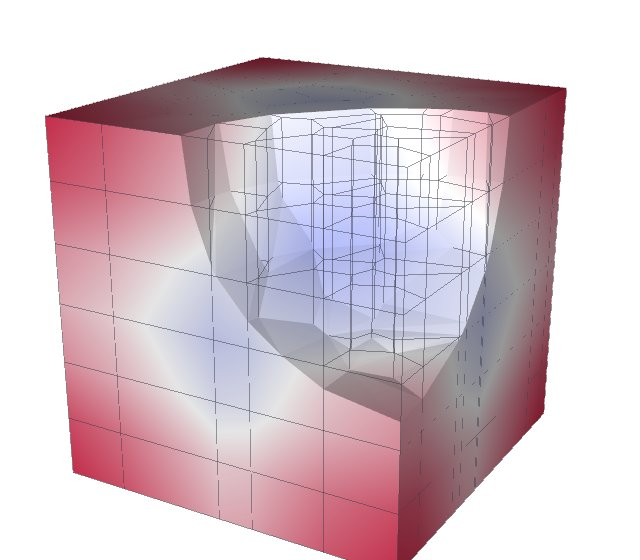
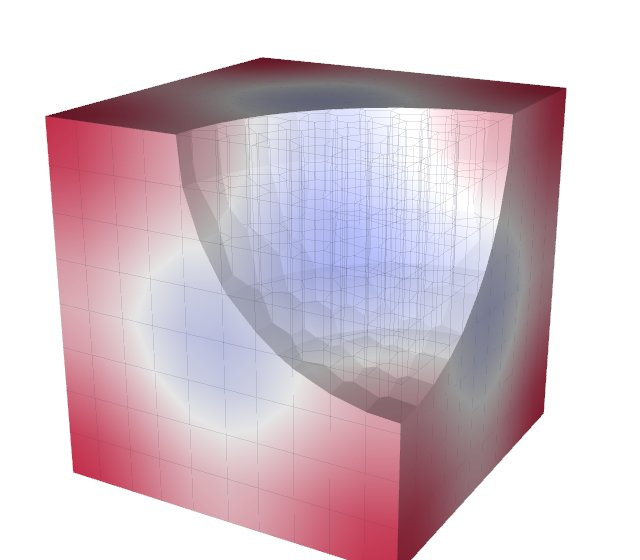
Gallery: Lloyd-relaxed Voronoi columns (1200 even polyhedra); cell quality on hexahedra in place of polyhedra, whose Jacobian measures are on their fan's scale; cell_quality documents that scale
A cube as a polyhedron has a scaled Jacobian of 1/sqrt(3) and a condition of
1.29, measured by its fan tetrahedra against the regular tetrahedron, where
the hexahedron scores 1: cell_quality's docstring says so and that the
polyhedron measures are a validity check comparing polyhedra with each other;
test_a_polyhedrons_measures_are_its_fans pins the numbers.

diff --git a/docs/gallery/_scene.py b/docs/gallery/_scene.py
@@ -26,7 +26,7 @@ KINDS = ("polyhedra", "linear", "high-order", "curved")
 
 TITLES = {"polyhedra": "Polyhedra", "linear": "Tetrahedra",
           "high-order": "Order 4 on straight cells", "curved": "Order 3 on curved cells",
-          "mixed": "Hexahedra, wedges and pyramids"}
+          "mixed": "Hexahedra, wedges and pyramids", "hexahedra": "Hexahedra"}
 
 
 def arguments(description, kinds=KINDS):
@@ -65,15 +65,12 @@ def _twist(x):
 
 # ── The datasets ────────────────────────────────────────────────────
 
-def _voronoi_columns(n=40, layers=6, seed=3):
-    """Voronoi cells of random points in the unit square, extruded through the unit
-    cube in ``layers``: polygonal prisms, faces of up to a dozen points. The points'
-    mirror images across the square's sides make the cells tile the square
+def _voronoi(seeds):
+    """The Voronoi diagram of ``seeds`` in the unit square, and each seed's region:
+    the seeds' mirror images across the square's sides make the regions tile it
     exactly."""
     from scipy.spatial import Voronoi
 
-    rng = np.random.default_rng(seed)
-    seeds = rng.uniform(0, 1, (n, 2))
     mirrored = [seeds]
     for axis in (0, 1):
         for side in (0.0, 1.0):
@@ -81,8 +78,26 @@ def _voronoi_columns(n=40, layers=6, seed=3):
             image[:, axis] = 2 * side - image[:, axis]
             mirrored.append(image)
     vor = Voronoi(np.concatenate(mirrored))
-    regions = [vor.regions[vor.point_region[i]] for i in range(n)]
-    # The mirrored cells' shared vertices are the square's; snap them onto it.
+    return vor, [vor.regions[vor.point_region[i]] for i in range(len(seeds))]
+
+
+def _voronoi_columns(n=150, layers=8, relax=20, seed=3):
+    """Voronoi cells of ``n`` points in the unit square, relaxed toward their
+    regions' centroids ``relax`` times (Lloyd's method: even cells, no very short
+    edges, as a polyhedral mesher makes them), extruded through the unit cube in
+    ``layers``: polygonal prisms."""
+    seeds = np.random.default_rng(seed).uniform(0, 1, (n, 2))
+    for _ in range(relax):
+        vor, regions = _voronoi(seeds)
+        for i, r in enumerate(regions):
+            ring = vor.vertices[r]
+            x, y = ring[:, 0], ring[:, 1]
+            cross = x * np.roll(y, -1) - np.roll(x, -1) * y
+            area = cross.sum() / 2
+            seeds[i] = [((x + np.roll(x, -1)) * cross).sum() / (6 * area),
+                        ((y + np.roll(y, -1)) * cross).sum() / (6 * area)]
+    vor, regions = _voronoi(seeds)
+    # The regions' vertices on the square's sides are on them to rounding: snap.
     xy = np.clip(vor.vertices, 0.0, 1.0)
     xy[np.abs(xy) < 1e-12] = 0.0
     xy[np.abs(xy - 1) < 1e-12] = 1.0
@@ -186,6 +201,10 @@ def dataset(kind):
         grid = td.uniform_grid((4, 4, 4), spacing=(1 / 3,) * 3)
         data = td.extract_cells(grid, np.arange(grid.num_cells))
         data.fields["u"] = td.interpolate(data, schwarz, td.H1(data, order=4))
+    elif kind == "hexahedra":
+        grid = td.uniform_grid((7, 7, 7), spacing=(1 / 6,) * 3)
+        data = td.extract_cells(grid, np.arange(grid.num_cells))
+        data.fields["u"] = td.interpolate(data, schwarz, td.H1(data))
     elif kind == "mixed":
         data = _mixed()
         data.fields["u"] = td.interpolate(data, schwarz, td.H1(data))

diff --git a/packages/tack-vis/src/tack/dataset/algorithms/cell_quality.py b/packages/tack-vis/src/tack/dataset/algorithms/cell_quality.py
@@ -490,10 +490,16 @@ def cell_quality(data, measures=None):
     measured as Verdict does, by its four tetrahedra over both base diagonals.
     Polyhedra and polygons, which have no reference cell, are measured by the fan
     tetrahedra and triangles Tack evaluates them in, each against the regular
-    tetrahedron or equilateral triangle: a valid star-shaped polyhedron has a
-    positive scaled Jacobian, though an ideal-looking one (a cube as a polyhedron)
-    scores below 1. Lines and vertices have no Jacobian measures (NaN); a line's
-    edges are its segments. Hidden cells are measured like the rest.
+    tetrahedron or equilateral triangle. Their Jacobian measures (scaled
+    Jacobian, Jacobian ratio, condition) are therefore on the fan's scale, not
+    the shapes': a cube as a polyhedron has a scaled Jacobian of 0.58 and a
+    condition of 1.29 where the hexahedron has 1 and 1, and no polyhedron has an
+    ideal to score 1 against. Read them as a validity check -- a positive scaled
+    Jacobian when every fan tetrahedron is upright (the cell star-shaped from its
+    points' mean), zero or negative when one is flat or inverted -- and compare
+    polyhedra with each other, not with shaped cells. The edge measures mean the
+    same on every cell. Lines and vertices have no Jacobian measures (NaN); a
+    line's edges are its segments. Hidden cells are measured like the rest.
 
     Matched to VTK 9.7.1's ``vtkMeshQuality`` to rounding for the scaled Jacobian
     of every linear shape, the condition number of triangles, quads, tetrahedra

diff --git a/packages/tack-vis/tests/test_cell_quality.py b/packages/tack-vis/tests/test_cell_quality.py
@@ -211,3 +211,19 @@ def test_measures_by_name():
     assert set(td.cell_quality(grid, ["condition", "max_edge"])) == {"condition", "max_edge"}
     with pytest.raises(ValueError, match="no measure 'skew'"):
         td.cell_quality(grid, "skew")
+
+
+def test_a_polyhedrons_measures_are_its_fans():
+    """What the docstring says of polyhedra: a cube as a polyhedron is measured by
+    the tetrahedra fanning it, against the regular tetrahedron -- scaled Jacobian
+    1/sqrt(3), condition 1.29 -- where the hexahedron scores 1; the edge measures
+    are the same on both."""
+    grid = td.uniform_grid((2, 2, 2), spacing=(0.5, 0.5, 0.5))
+    hexahedron = td.extract_cells(grid, [0])
+    ours, theirs = td.cell_quality(td.as_polyhedra(hexahedron)), td.cell_quality(hexahedron)
+    np.testing.assert_allclose(ours["scaled_jacobian"].values.numpy(), 1 / np.sqrt(3),
+                               rtol=1e-5)
+    np.testing.assert_allclose(ours["condition"].values.numpy(), 1.2909945, rtol=1e-5)
+    np.testing.assert_allclose(theirs["scaled_jacobian"].values.numpy(), 1.0, rtol=1e-6)
+    for name in ("edge_ratio", "min_edge", "max_edge"):
+        np.testing.assert_allclose(ours[name].values.numpy(), theirs[name].values.numpy())

diff --git a/docs/gallery/quality.py b/docs/gallery/quality.py
@@ -5,7 +5,7 @@ inverted), on meshes with their inner points jittered and on curved cells, the
 cells near a corner taken out so the inside shows.
 
 From the checkout (writes docs/assets/gallery/quality-<kind>.jpg):
-uv run python docs/gallery/quality.py [polyhedra linear mixed curved] [--arch metal]
+uv run python docs/gallery/quality.py [linear hexahedra mixed curved] [--arch metal]
 """
 
 import _scene
@@ -13,7 +13,9 @@ import numpy as np
 
 import tack.dataset as td
 
-KINDS = ("polyhedra", "linear", "mixed", "curved")
+# Not polyhedra: theirs are measured by the tetrahedra fanning them, on another
+# scale (a cube as a polyhedron scores 0.58), read as a validity check.
+KINDS = ("linear", "hexahedra", "mixed", "curved")
 
 
 def quality(data):

diff --git a/docs/vis-guide/gallery.md b/docs/vis-guide/gallery.md
@@ -192,19 +192,21 @@ and the ball's rim, not the sub-faces between them.
 
 Each cell's scaled Jacobian, red where poor (0 degenerate, below 0 inverted) and
 blue where ideal (1), on meshes whose inner points are moved at random, with the
-cells about a corner taken out. A polyhedron's measure is that of the tetrahedra
-fanning it, so even a cube-like one scores below 1. On the curved cells it is
-the least over the geometry's own Jacobian's samples.
+cells about a corner taken out. On the curved cells it is the least over the
+geometry's own Jacobian's samples. Polyhedra are left out: with no reference
+element, theirs is measured by the tetrahedra fanning them, on another scale (a
+cube as a polyhedron scores 0.58), and is read as a validity check -- positive
+when the cell is star-shaped -- comparing polyhedra only with each other.
 
 <div class="grid cards" markdown>
-
--   ![The quality of polyhedra](../assets/gallery/quality-polyhedra.jpg){ loading=lazy decoding=async width=640 height=560 }
-
-    Polyhedra
 
 -   ![The quality of tetrahedra](../assets/gallery/quality-linear.jpg){ loading=lazy decoding=async width=640 height=560 }
 
     Tetrahedra
+
+-   ![The quality of hexahedra](../assets/gallery/quality-hexahedra.jpg){ loading=lazy decoding=async width=640 height=560 }
+
+    Hexahedra
 
 -   ![The quality of a mixed mesh](../assets/gallery/quality-mixed.jpg){ loading=lazy decoding=async width=640 height=560 }
 
